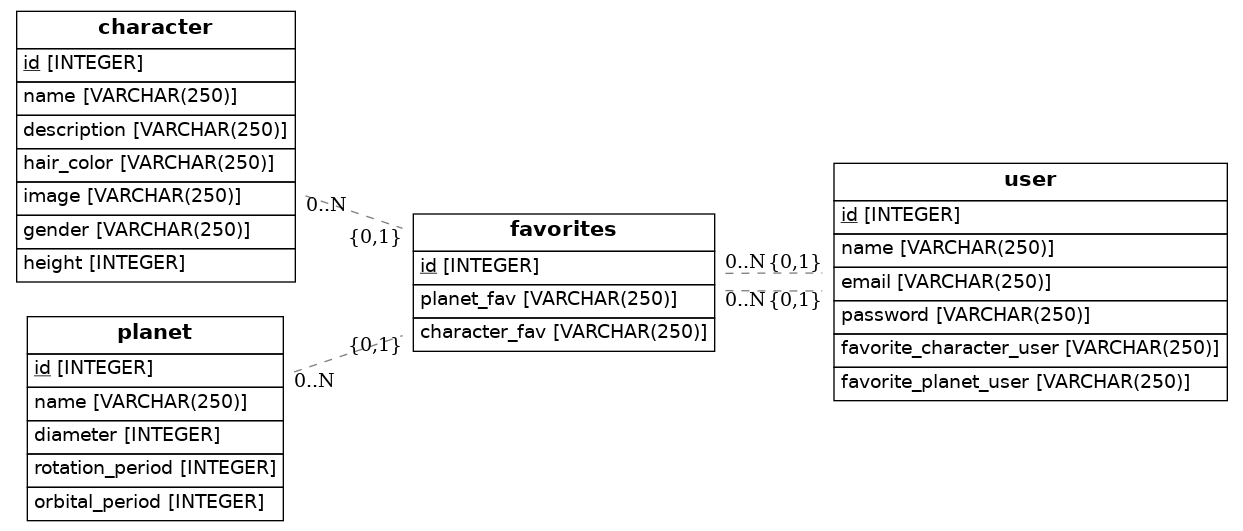
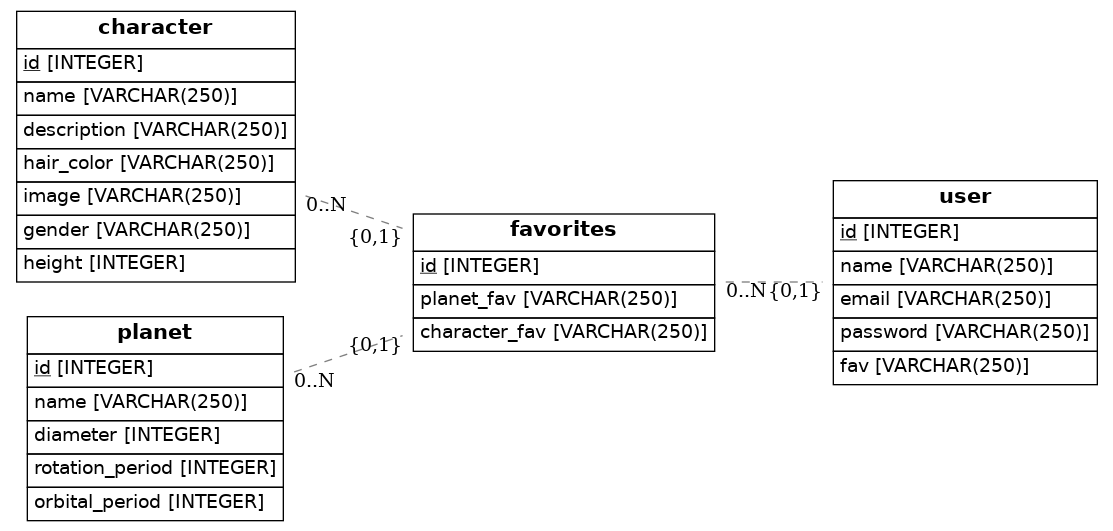
Modelo

diff --git a/src/models.py b/src/models.py
@@ -61,9 +61,8 @@ class User(Base):
     name = Column(String(250), nullable=False)
     email = Column(String(250))
     password = Column(String(250))
-    favorite_character_user = Column(String(250),ForeignKey('favorites.character_fav'))
-    
-    favorite_planet_user = Column(String(250),ForeignKey('favorites.planet_fav'))
+    fav = Column(String(250),ForeignKey("favorites.id"))
+    favorites = relationship("Favorites")
    
 
 
